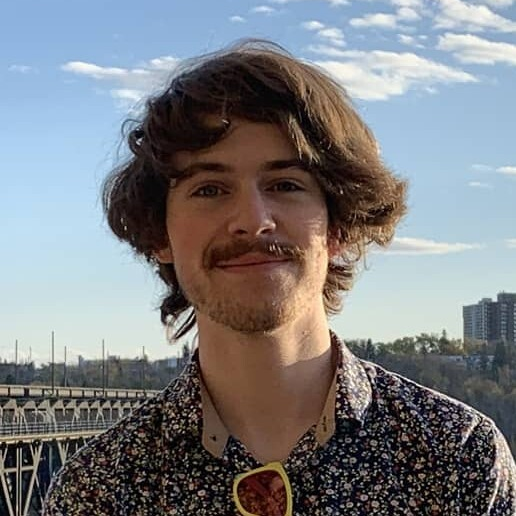
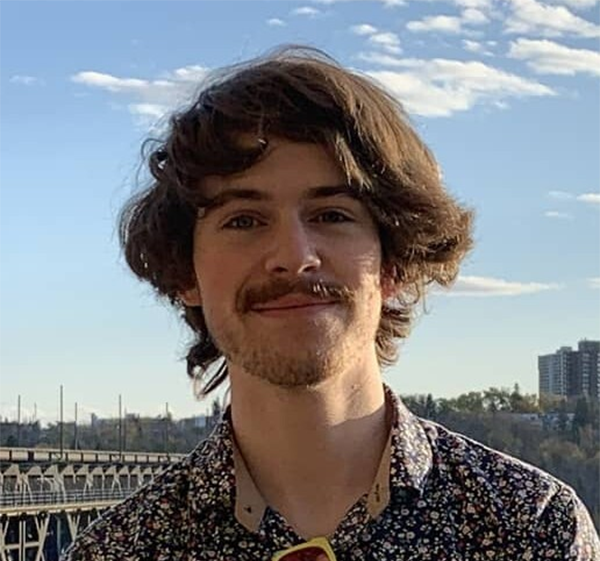
Update to Koalacademy

diff --git a/public/project/koalacademy.html b/public/project/koalacademy.html
@@ -75,24 +75,54 @@
             </div>
 
             <div id="largeInfoBlockText">
-              <div class="subSubTitle"  style="margin-bottom: 15px;">Language Learning With Brain Waves</div>
-              <p class="paragraph">We are developing the world's first language learning platform optimized to directly utilize brain waves. Our project leverages the subsequent memory effect, or the fact that memory outcomes (i.e. whether something will be remembered or forgotten) can be predicted based on brain activity during attempted memory encoding. Accordingly, we plan to develop a language learning game which will provide real-time feedback to users on whether the encoding of a given translation is likely to be successful or not. Initially, we will focus on Mandarin acquisition for English speakers because of the inherent difficulty involved in learning this language. We are aiming to reduce individual barriers in learning this complex but highly relevant language. We also plan to host our application on a remote web server, allowing open access to any users with the requisite hardware. Altogether, we aim to demonstrate the power of commercial BCIs in allowing average consumers to develop practical life skills in an efficient and engaging manner.
+              <div class="subTitle"  style="margin-bottom: 15px; padding-top: 15px; padding-bottom: 15px;">Language Learning - With Brain Waves!</div>
+              <p class="paragraph">We are developing Koalacademy, the first language learning platform to use brain waves as an input! The goal is to provide real-time feedback to users on whether they are expected to remember or forget a given translation based on EEG activity recorded during their study.
+              </p>
+              <div class="subSubTitle"  style="margin-bottom: 15px;">Project Goals:</div>
+
+              <div class="subSubSubTitle"  style="margin-bottom: 15px;">Language Learning</div>
+              <p class="paragraph">
+                <br>Facilitate Mandarin acquisition for English speakers, given the difficulty of learning the language.
               </p>
 
+              <div class="subSubSubTitle"  style="margin-bottom: 15px;">Open Access</div>
+              <p class="paragraph">
+                <br>Host our application on a remote web server, allowing open access to any users with the requisite hardware. 
+              </p>
+
+              <div class="subSubSubTitle"  style="margin-bottom: 15px;">Demonstrate a Practical BCI Usecase</div>
+              <p class="paragraph">
+                <br>Demonstrate the power of commercial BCIs in allowing everyday users to develop practical life skills in an efficient and engaging manner.
+              </p>
             </div>
           </div>
         </div>
 
 
-
-
         <div id="largeInfoBlock">
           <div id="largeInfoContents" style="margin-top: 1%; display: block;">
-            <div class="subTitle" style="margin-bottom: 15px;">Underlying Principles</div>
+            <div class="subTitle" style="margin-bottom: 15px;">Validation</div>
 
             <p class="paragraph">
-              We take advantage of the subsequent memory effect (SME) which refers to the difference in brain activity between individuals studying items they will later remember and studying items they will later forget. Regarding EEG data, the study of items that will be remembered later is characterized by increased voltage readings over frontal and parietal regions following item presentation, as well as increased spectral power in bands such as theta. Here, we plan to leverage the power of deep machine learning models to exploit the intricacies of the SME beyond voltage and power readings. In particular, we will apply these models while individuals attempt to learn the “items” involved in learning a new language (such as characters or translations) with the goal of providing a real-time assessment of whether the study period was successful and whether it is likely that the individual will remember the item they are currently studying.
+              Our project is based on the subsequent memory effect (SME), or the difference in brain activity while an individual studies an item they will later remember versus an item they will later forget. We plan to leverage the power of deep learning models to tap into the intricacies of the SME in EEG data, and deploy these models to make real-time predictions on whether users will learn the translations studied in the app. 
+
+              <br> <br> Collaborating with Dr. Jacqueline Cummine, a Tier 2 Canada Research Chair in Neuroscience and Literacy, and Dr. Kuo-Chan Sun, a subject matter expert on Chinese language, we’re running a research study at the University of Alberta this academic year to confirm that our methods can make accurate predictions on subsequent learning based on brain activity. The structure of this study will be as follows: 
             </p>
+            <div class="subSubTitle" style="margin-bottom: 15px;">Hardware Validation</div>
+            <p class="paragraph">
+              We will be running an initial study to confirm that data gathered using our hardware setup can demonstrate well-established effects seen across the cognitive neuroscience literature. This will involve running an oddball task, where a distinct waveform known as the P300 should appear in EEG data when participants see an out-of-place stimulus on-screen.
+            </p>
+            <div class="subSubTitle" style="margin-bottom: 15px;">Baseline Task</div>
+            <p class="paragraph">
+              In this task, we’ll have participants study different English-Mandarin translations while their brain activity is recorded by an EEG. Then, we’ll develop machine learning models that can learn what subsequently remembered/forgotten translations “look like” based on brain activity.
+
+            </p>
+            <div class="subSubTitle" style="margin-bottom: 15px;">Main Experiment </div>
+            <p class="paragraph">
+              Finally, we’ll deploy the models created in the Baseline Task to make predictions in real-time while other participants study English-Mandarin translations. Then, we’ll evaluate whether the predictions made by these models are informative - i.e., if re-studying words flagged by the model as “unlearned” helps participant accuracy.
+
+            </p>
+
           </div>
         </div>
 
@@ -112,17 +142,6 @@
         </div>
 
 
-
-        <div id="largeInfoBlock">
-          <div id="largeInfoContents" style="margin-top: 1%; display: block;">
-            <div class="subTitle" style="margin-bottom: 15px;">Our Vision</div>
-            <p class="paragraph">
-              This project will culminate in a fully functioning, free to use, web-based game. We expect our project to garner significant media attention given the broad coverage of our first project, AlphaBlaster, in 2019. This will be accomplished by reaching out both within the University of Alberta community as well as the broader Edmonton community. We will also share our project internally throughout the University of Alberta and the University of Calgary. Most importantly, we also plan to submit our project to the 2021 iteration of the NeuroTechX Open Competition, an international undergraduate neurotechnology design contest!
-            </p>
-          </div>
-        </div>
-
-
         <div id="interestedBlock" style="margin-bottom: 30px;">
 
           <div id="interestedBlockContents">
@@ -133,90 +152,82 @@
             <table style="width:100%" class="pastExecsTable">
               <tr>
                 <th>
-                  <div id="smallImage">
-                    <a href="https://www.linkedin.com/in/eden-redman-neuro/" target="_blank"><img src="../images/Headshots/EdenHeadshot.jpg" id="smallImageChild"></img></a>
+                  <div id="smallMediumImage">
+                    <a href="https://www.linkedin.com/in/eden-redman-neuro/" target="_blank"><img src="../images/ProjectPhotos/koalacademy/Eden_Redman.jpg" id="smallMediumImageChild"></img></a>
                   </div>
                 </th>
 
                 <th>
-                  <div id="smallImage">
-                    <a href="https://www.linkedin.com/in/landon-fuhr-8522031b7/" target="_blank"><img src="../images/Headshots/LandonHeadshot.jpg" id="smallImageChild"></img></a>
+                  <div id="smallMediumImage">
+                    <a href="https://www.linkedin.com/in/harrison-fah-3858b7204//" target="_blank"><img src="../images/ProjectPhotos/koalacademy/Harrison_Fah.png" id="smallMediumImageChild"></img></a>
                   </div>
                 </th>
 
                 <th>
-                  <div id="smallImage">
-                    <a href="https://www.linkedin.com/in/harrison-fah-3858b7204//" target="_blank"><img src="../images/ProjectPhotos/koalacademy/Harrison_Fah.png" id="smallImageChild"></img></a>
+                  <div id="smallMediumImage">
+                    <a href="https://www.linkedin.com/in/matthew-danyluik/" target="_blank"><img src="../images/ProjectPhotos/koalacademy/Matthew.jpg" id="smallMediumImageChild"></img></a>
                   </div>
                 </th>
 
                 <th>
-                  <div id="smallImage">
-                    <a href="https://www.linkedin.com/in/cdhildebrandt/" target="_blank"><img src="../images/Headshots/CameronHeadshot2.jpg" id="smallImageChild"></img></a>
+                  <div id="smallMediumImage">
+                    <a href="mailto:dvillarr@ualberta.ca" target="_blank"><img src="../images/ProjectPhotos/koalacademy/Dania.png" id="smallMediumImageChild"></img></a>
                   </div>
                 </th>
 
                 <th>
-                  <div id="smallImage">
-                    <a href="https://www.linkedin.com/in/matthew-danyluik/" target="_blank"><img src="../images/Headshots/MatthewHeadshot.jpg" id="smallImageChild"></img></a>
+                  <div id="smallMediumImage">
+                    <a href="https://www.linkedin.com/in/william-chen-4164a8106/" target="_blank"><img src="../images/ProjectPhotos/koalacademy/William_Chen.jpeg" id="smallMediumImageChild"></img></a>
+                  </div>
+                </th>
+---
+                <th>
+                  <div id="smallMediumImage">
+                    <a href="https://www.linkedin.com/in/alamoodi/" target="_blank"><img src="../images/ProjectPhotos/koalacademy/Khaled_Al-Amoodi.jpeg" id="smallMediumImageChild"></img></a>
                   </div>
                 </th>
 
                 <th>
-                  <div id="smallImage">
-                    <a href="https://www.linkedin.com/in/nicole-wlasitz-she-her-0a523713b/" target="_blank"><img src="../images/Headshots/NicoleHeadshot.jpg" id="smallImageChild"></img></a>
+                  <div id="smallMediumImage">
+                    <a href="https://www.linkedin.com/in/julie-pilz-357515171/" target="_blank"><img src="../images/ProjectPhotos/koalacademy/Julie_Pilz.jpeg" id="smallMediumImageChild"></img></a>
                   </div>
                 </th>
 
                 <th>
-                  <div id="smallImage">
-                    <a href="mailto:dvillarr@ualberta.ca" target="_blank"><img src="../images/ProjectPhotos/koalacademy/dania_villarreal.png" id="smallImageChild"></img></a>
+                  <div id="smallMediumImage">
+                    <a href="https://www.linkedin.com/in/y-xue/" target="_blank"><img src="../images/ProjectPhotos/koalacademy/Shelly_Xue.jpg" id="smallMediumImageChild"></img></a>
                   </div>
                 </th>
 
-                <th>
-                  <div id="smallImage">
-                    <a href="https://www.linkedin.com/in/xiaoyuwang99/" target="_blank"><img src="../images/ProjectPhotos/koalacademy/Ben_Wang.jpg" id="smallImageChild" ></img></a>
-                  </div>
-                </th>
-
-                <!-- <th>
-                  <div id="smallImage">
-                    <a href="https://www.linkedin.com/in/william-chen-4164a8106/" target="_blank"><img src="../images/ProjectPhotos/koalacademy/" id="smallImageChild"></img></a>
-                  </div>
-                </th> -->
-
-                <th>
-                  <div id="smallImage">
-                    <a href="https://www.linkedin.com/in/tanyaradzwa-gozhora-8941b519a/" target="_blank"><img src="../images/ProjectPhotos/koalacademy/Tanya_Gozhora.jpg" id="smallImageChild"></img></a>
+---                <th>
+                  <div id="smallMediumImage">
+                    <a href="https://www.linkedin.com/in/tanyaradzwa-gozhora-8941b519a/" target="_blank"><img src="../images/ProjectPhotos/koalacademy/Tanya.png" id="smallMediumImageChild"></img></a>
                   </div>
                 </th>
               </tr>
 
               <tr style="font-family: 'Maven Pro'; color: rgba(255,255,255,1);">
                 <th>Eden Redman</th>
-                <th>Landon Fuhr</th>
                 <th>Harrison Fah</th>
-                <th>Cameron Hildebrandt</th>
                 <th>Matthew Danyluk</th>
-                <th>Nicole Wlastiz</th>
                 <th>Dania Villarreal</th>
-                <th>Ben Wang</th>
-                <!-- <th>William Chen</th> -->
+                <th>William Chen</th>
+                <th>Khaled Al-Amoodi</th>
+                <th>Julie Pilz</th>
+                <th>Shelly Xue</th>
                 <th>Tanyaradzwa Gozhora</th>
               </tr>
 
               <tr style="font-family: 'Maven Pro'; color: rgba(255,255,255,1);">
                 <td>Team Lead - BA, Fine Arts and Design</td>
-                <td>Senior Full Stack Developer - BSc, Physiology</td>
-                <td>Senior Full Stack Developer BSc, Computer Science</td>
-                <td>Senior Front End Developer - BSc, Computer Science</td>
-                <td>Data Analyst - BSc, Neuroscience</td>
-                <td>Junior Front End Developer - BA, Psychology</td>
-                <td>Front End Developer - BSc, Neuroscience</td>
-                <td>Full Stack Developer - BSc, Computer Science</td>
-                <!-- <td>BSc, Computer Science</td> -->
-                <td>Junior Front End Developer - BSc, Computer Science</td>
+                <td>Client Analytics Team Lead - BSc, Computer Science</td>
+                <td>Server Analytics Team Lead - BSc, Neuroscience</td>
+                <td>Front End Team Lead - BSc, Neuroscience</td>
+                <td>Game Development Team Lead - BSc, Computer Science</td>
+                <td>Client Analytics Developer - PhD, Computer Engineering</td>
+                <td>Front End Developer - Bsc, Computer Science & Psychology</td>
+                <td>Front End Developer - BSc, Computer Science</td>
+                <td>Front End Developer - BSc, Computer Science</td>
               </tr>
             </table>
           </div>

diff --git a/public/style.css b/public/style.css
@@ -1898,6 +1898,30 @@ select:-webkit-autofill:focus {
   transform: translateY(-50%);
 }
 
+#smallMediumImage {
+  -webkit-mask-image: -webkit-radial-gradient(white, black);
+
+  position: relative;
+  border-radius: 10px;
+  overflow: hidden;
+  transition: transform 0.2s ease-in-out;
+
+  /* margin-top: 10px; */
+  margin-left: 5px;
+  margin-right: 5px;
+  display: inline-block;
+  /* position: relative; */
+  height: 325px;
+  width: 440px;
+}
+
+#smallMediumImageChild {
+  width: 100%;
+  position: absolute;
+  top: 50%;
+  transform: translateY(-50%);
+}
+
 #smallVideoPlayer {
   display: none;
   height: 169px;
